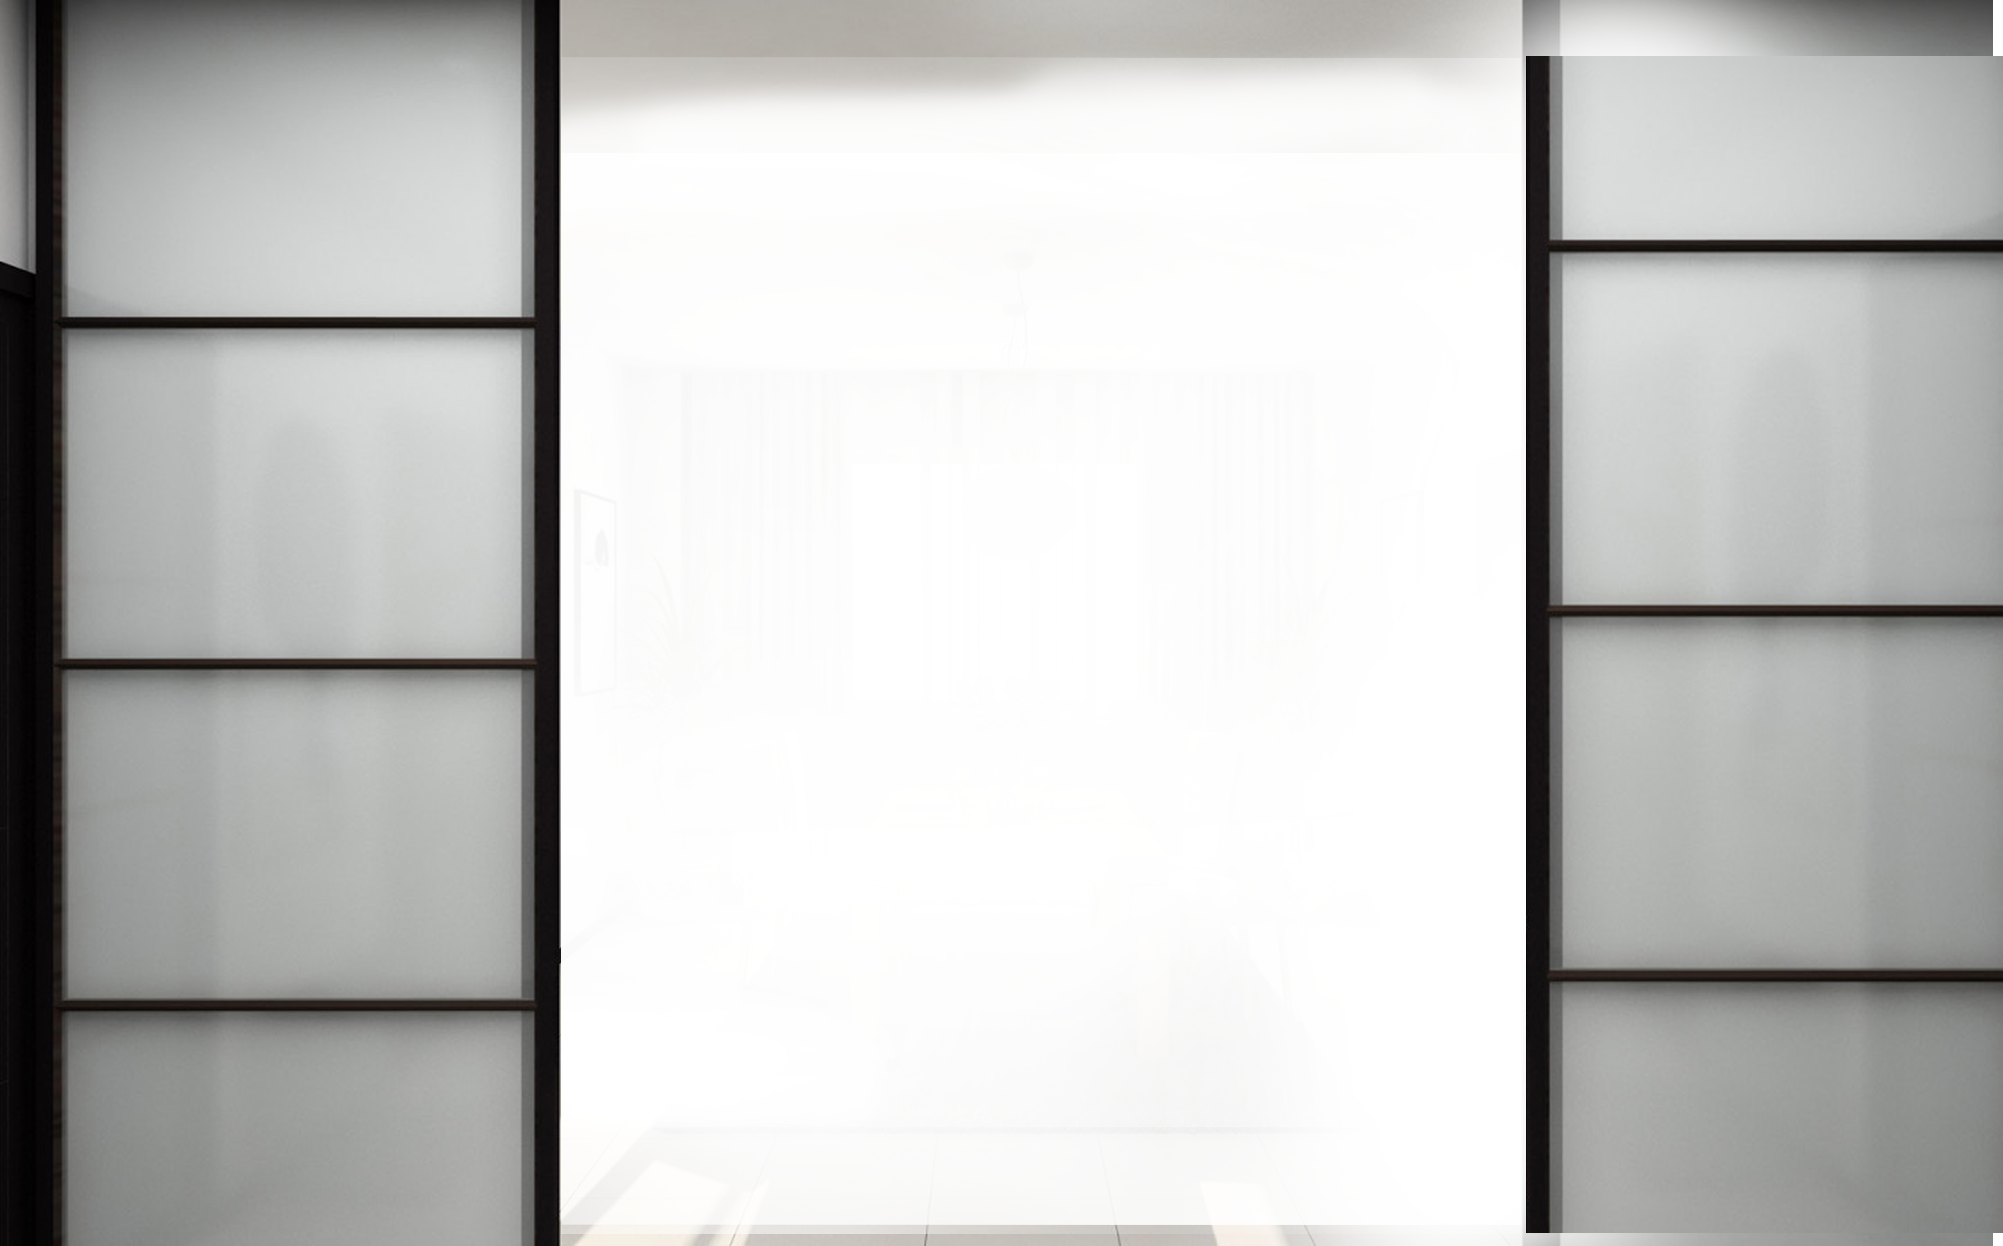
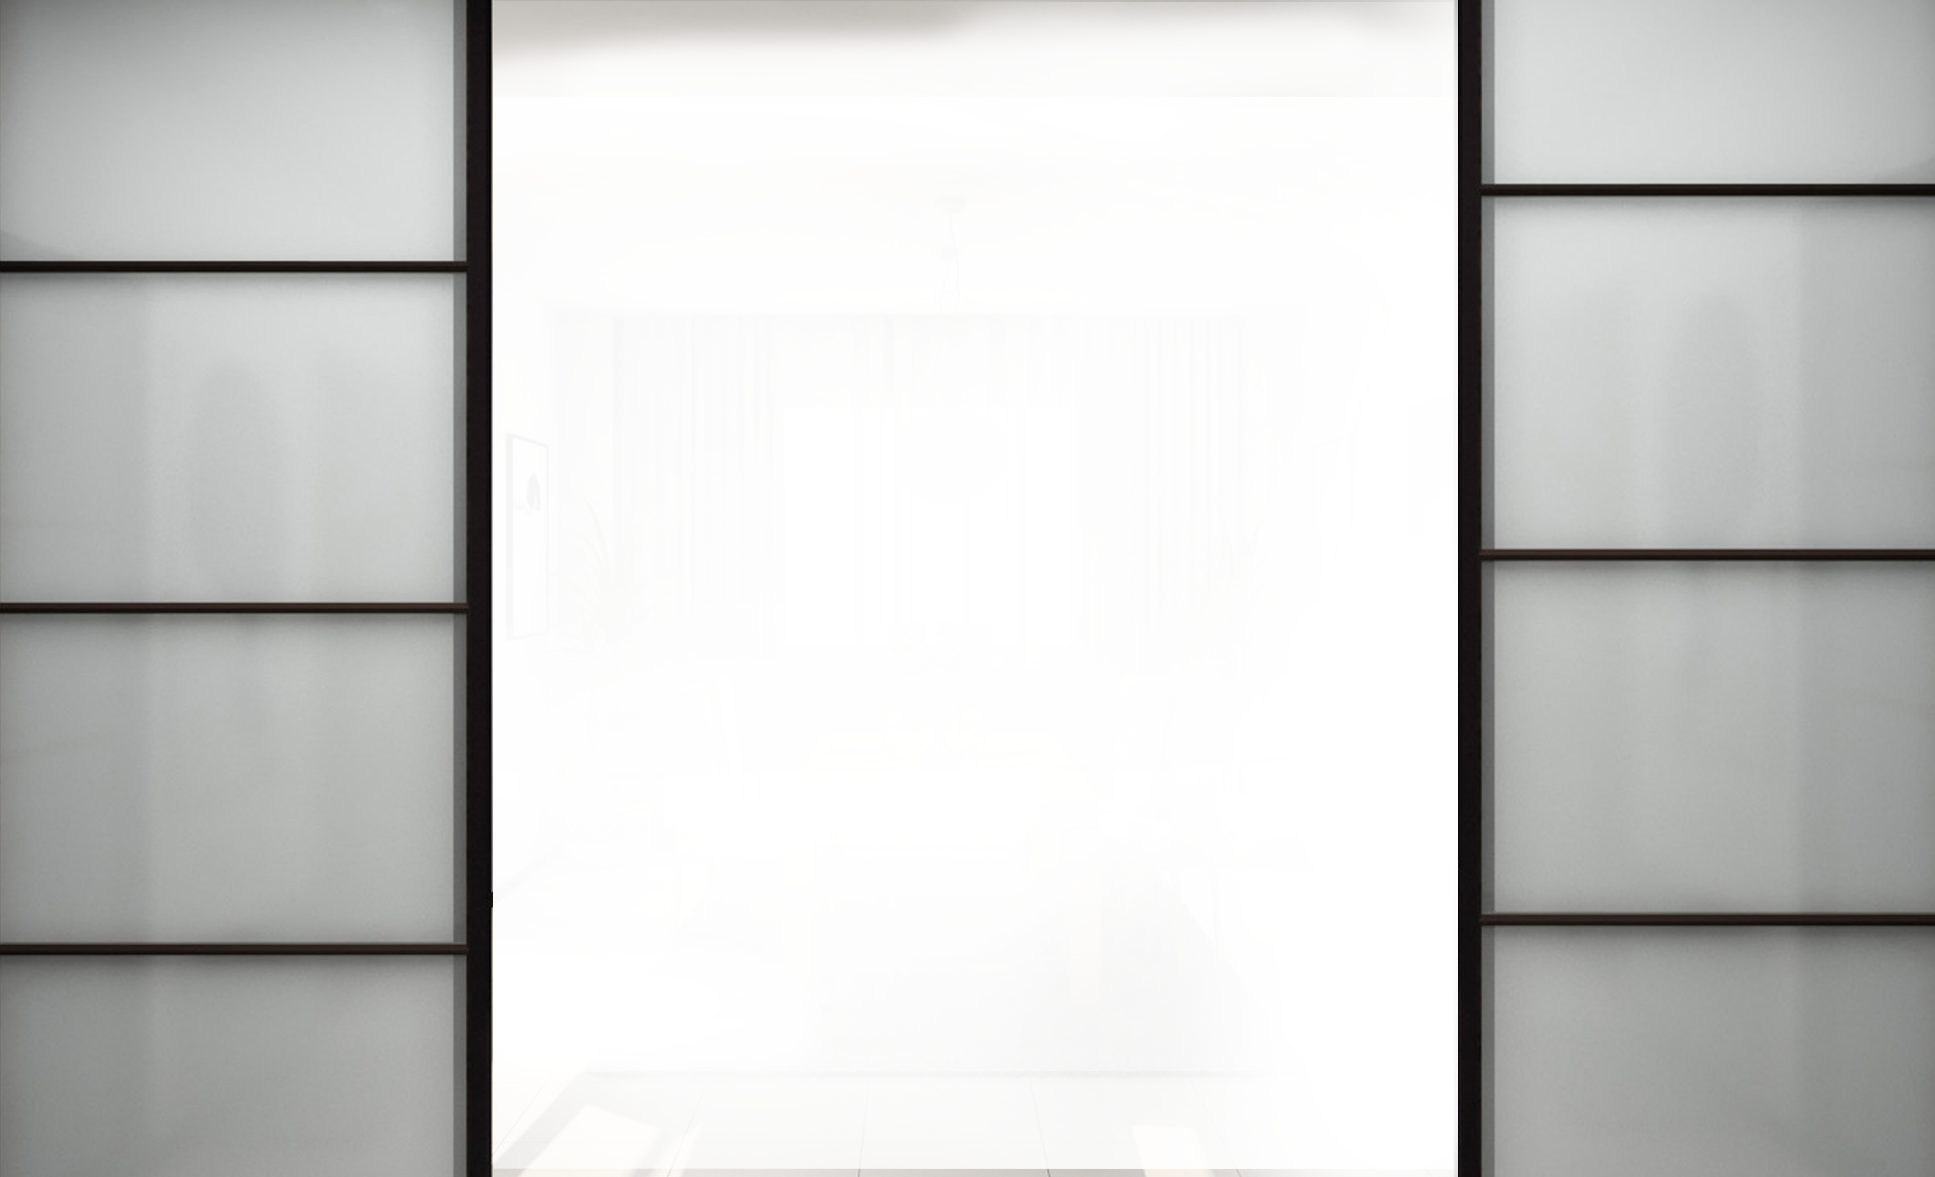
update bg for first-part and third-part

diff --git a/css/style.css b/css/style.css
@@ -108,14 +108,21 @@ nav ul li a:hover {
 
 /* ---------------- FIRST-PART ------------------------- */
 
-.first-part {
-    height: 770px;
-    background-image: url(../img/slider/slider_image_1.png);
-    background-position: center;
-    position: relative;
-    background-repeat: no-repeat;
+.skew-one {
+	height: 850px; /*7. ... */
+	transform: skewY(-3deg);
+	overflow: hidden; /*6. ... */
+	margin-top: -65px; /* 5. ... */
 }
 
+.first-part {
+	background: url(../img/slider/slider_image_1.png) no-repeat center center fixed; /*1. fix the image */
+	background-size: cover; /*2. image cover background */
+	transform: skewY(3deg);
+    height: 870px; /* 3. inner container must be bigger than outer container*/
+    position: relative;
+	margin-top: 60px; /*4. ... */
+}
 
 .first-part > h2 {
     font-size: 45px;
@@ -199,6 +206,7 @@ div.text-box p {
 	transform: skew(0, 5deg);
 }
 
+
 /* -------------------- SECOND-PART ------------------------- */
 
 .second-part {
@@ -236,12 +244,20 @@ div.text-box p {
 
 /*---------------------- THIRD-PART ----------------------------*/
 
+.skew-three {
+	height: 900px;
+	transform: skewY(3deg);
+	overflow: hidden; 
+}
+
 .third-part {
-    height: 1000px;
-    background: url(../img/reason/big_middle_image_1.png) no-repeat center;
-    background-position: center;
+    height: 1100px;
+    background: url(../img/reason/big_middle_image_1.png) no-repeat center center fixed;
+	background-size: cover;
     position: relative;
-    background-repeat: no-repeat;
+	transform: skewY(-3deg);
+	background-position: bottom left;
+	margin-top: -100px;
 }
 
 .third-part h2 {

diff --git a/index.html b/index.html
@@ -40,6 +40,8 @@
             </ul>
         </menu>
     </nav>
+    
+    <div class="skew-one">
     <div class="first-part">
         <h2 class="container">Мебель на заказ с 3 вариантами дизайна и с гарантией 12 месяцев</h2>
         <div id="form">
@@ -56,6 +58,8 @@
             </p>
         </div>
     </div>
+    </div>
+    
     <div class="second-part">
         <div class="container">
             <h2>Наша продукция</h2>
@@ -79,6 +83,9 @@
             </ul>
         </div>
     </div>
+
+    
+    <div class="skew-three">
     <div class="third-part">
         <div class="container">
             <div class="box-reason clean">
@@ -146,6 +153,9 @@
             </div>
         </div>
     </div>
+    </div>    
+    
+    
     <div class="fourth-part">
         <div class="container">
             <h2>МЕЧТАЕТЕ</h2>
